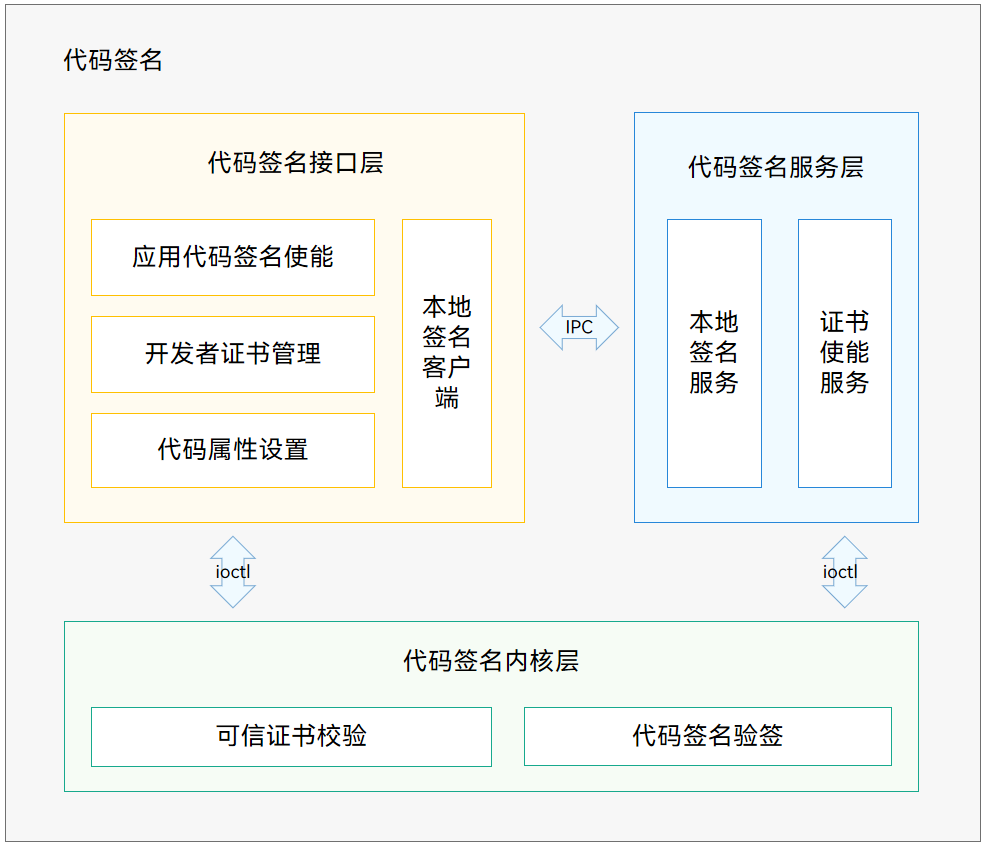
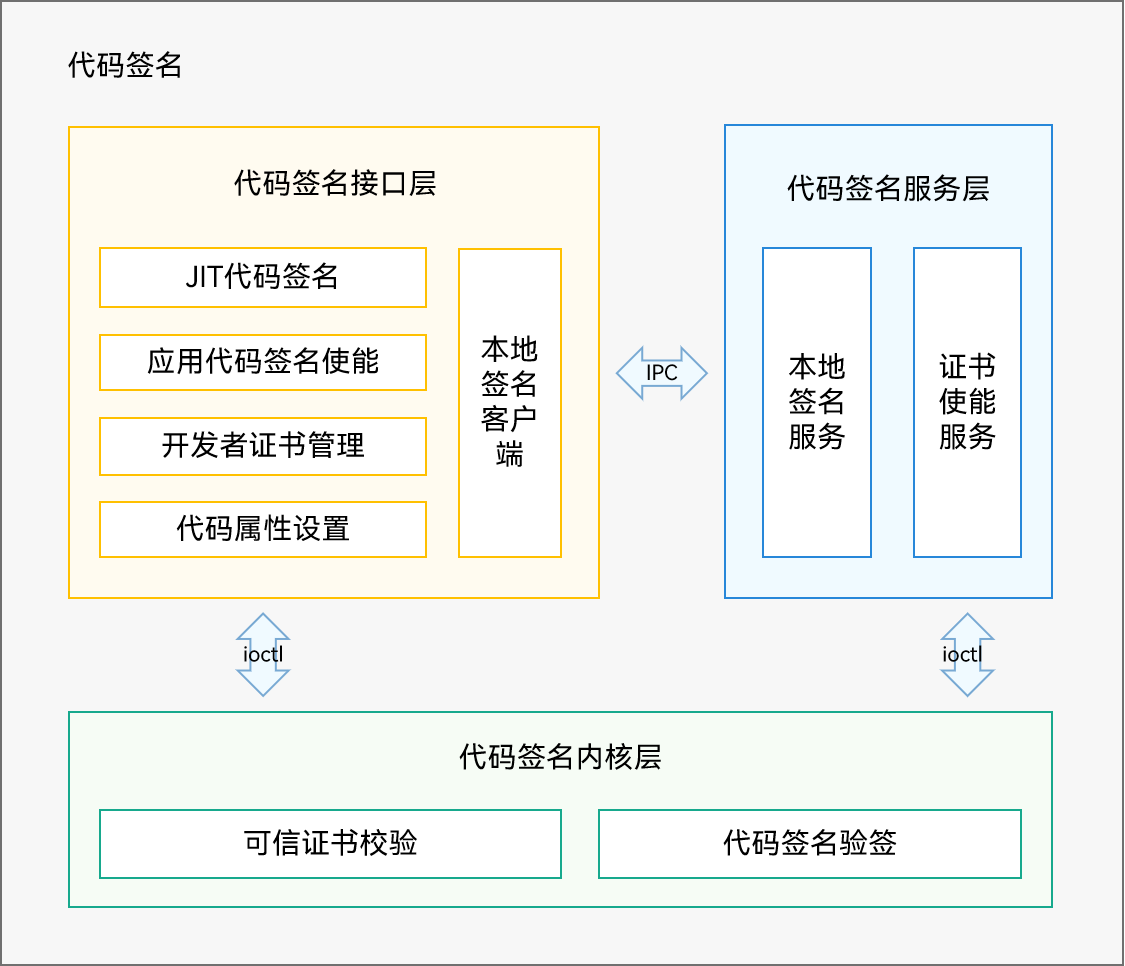
update README for jit code signing

diff --git a/test/unittest/jit_code_sign_test.cpp b/test/unittest/jit_code_sign_test.cpp
@@ -24,6 +24,7 @@
 #include <unistd.h>
 
 #include "errcode.h"
+#include "jit_code_signer_factory.h"
 #include "jit_buffer_integrity.h"
 #include "pac_sign_ctx.h"
 
@@ -121,6 +122,7 @@ public:
 
     static void SetUpTestCase()
     {
+        EXPECT_EQ(JitCodeSignerFactory::IsSupportJitCodeSigner(), true);
         JitFortPrepare();
         AllocJitMemory();
     };

diff --git a/interfaces/innerkits/jit_code_sign/src/pac_sign_ctx.cpp b/interfaces/innerkits/jit_code_sign/src/pac_sign_ctx.cpp
@@ -151,13 +151,6 @@ uint32_t PACSignCtx::Update(uint32_t value)
     return signature;
 }
 
-void PACSignCtx::Finalize()
-{
-    if (purpose_ == CTXPurpose::SIGN) {
-        (void) GetRealContext();
-    }
-}
-
 uint32_t PACSignCtx::SignSingle(uint32_t value, uint32_t index)
 {
     uint64_t paddingContext = PaddingContext(SIGN_WITHOUT_CONTEXT, index);

diff --git a/interfaces/innerkits/jit_code_sign/include/pac_sign_ctx.h b/interfaces/innerkits/jit_code_sign/include/pac_sign_ctx.h
@@ -40,7 +40,6 @@ public:
     void Init(int index);
     void InitSalt();
     uint32_t Update(uint32_t value);
-    void Finalize();
     uint32_t SignSingle(uint32_t value, uint32_t index);
     void SetIndex(uint32_t index);
     uint32_t GetSalt();

diff --git a/README_zh.md b/README_zh.md
@@ -14,6 +14,7 @@
 - 代码签名使能：在用户态提供代码签名校验的相关接口和逻辑，供应用安装的时候调用，为应用和代码文件使能代码签名。
 - 本地代码签名：在设备侧运行签名服务给本地代码提供签名接口，为AOT生成的机器码文件生成代码签名。
 - 代码属性设置：支持代码所有者标记及校验，提供配置XPM验签地址区接口。
+- JIT(Just In Time)代码签名：使用代码签名技术来保护编译出的JIT代码的完整性，防止恶意代码被注入到JIT代码中。
 
 ## 目录
 
@@ -24,7 +25,8 @@
 │       ├── code_sign_attr_utils # 属性设置接口
 │       ├── code_sign_utils      # 使能接口
 │       ├── common               # 公共基础能力
-│       └── local_code_sign      # 本地签名接口
+│       ├── jit_code_sign        # JIT代码签名
+│       └── local_code_sign      # 本地签名
 ├── services                     # 服务层
 │    ├── key_enable              # 证书初始化
 │    └── local_code_sign         # 本地签名服务
@@ -51,6 +53,16 @@
 | int32_t SignLocalCode(const std::string &ownerID, const std::string &filePath, ByteBuffer &signature); | 带OwnerId的本地代码签名 |
 | int InitXpmRegion(void); | 初始化XPM地址 |
 | int SetXpmOwnerId(uint32_t idType, const char *ownerId); | 设置OwnerId |
+| int32_t RegisterTmpBuffer(JitCodeSignerBase *signer, void *tmpBuffer); | 注册临时Buffer起始地址 |
+| int32_t AppendInstruction(JitCodeSignerBase *signer, Instr instr); | 对添加到临时Buffer的指令签名 |
+| int32_t AppendData(JitCodeSignerBase *signer, const void *const data, uint32_t size); | 对添加到临时Buffer的数据签名 |
+| int32_t WillFixUp(JitCodeSignerBase *signer, uint32_t n = 1); | 声明下n条指令待更新 |
+| int32_t PatchInstruction(JitCodeSignerBase *signer, int offset, Instr instr); | 更新缓冲区的偏移处指令签名 |
+| int32_t PatchInstruction(JitCodeSignerBase *signer, void *address, Instr insn); | 更新对应地址指令签名 |
+| int32_t PatchData(JitCodeSignerBase *signer, int offset, const void *const data, uint32_t size); | 更新缓冲区偏移处数据签名 |
+| int32_t PatchData(JitCodeSignerBase *signer, void *address, const void *const data, uint32_t size); | 更新对应地址数据签名 |
+| int32_t ResetJitCode(void *jitMemory, int size); | 重置JIT内存 |
+| int32_t CopyToJitCode(JitCodeSignerBase *signer, void *jitMemory, void *tmpBuffer, int size); | 将JIT代码复制到JIT内存 |
 
 ### 签名工具使用指南
 
